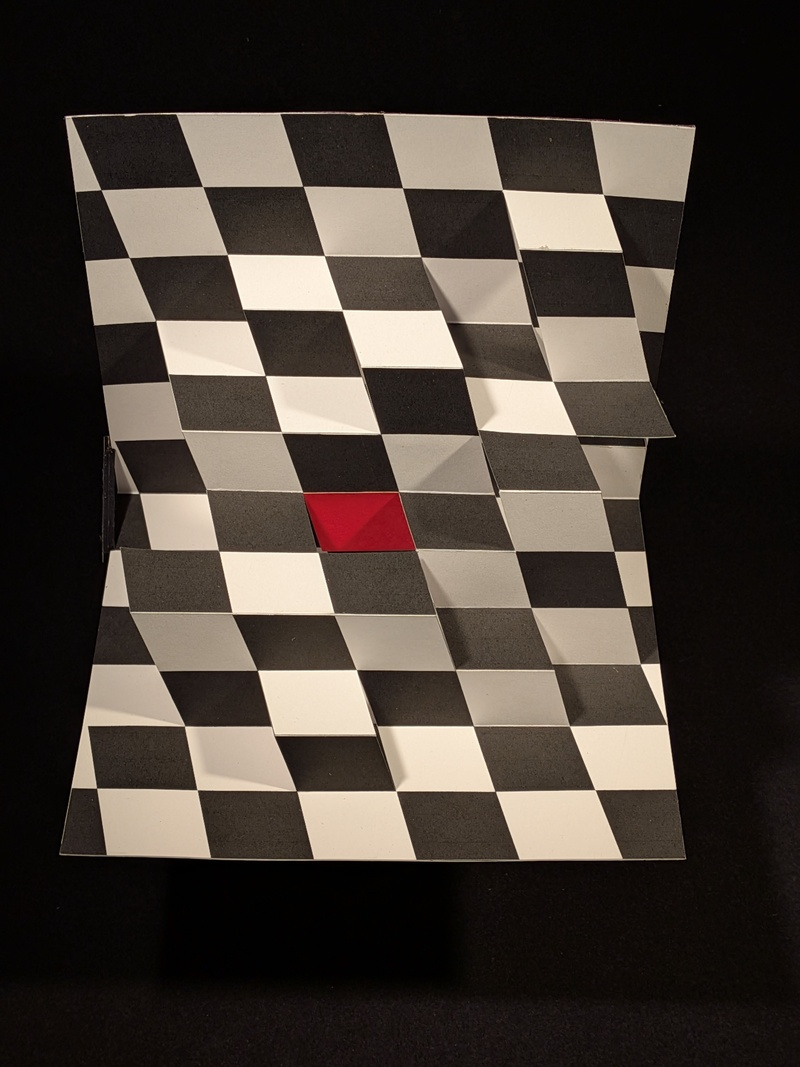
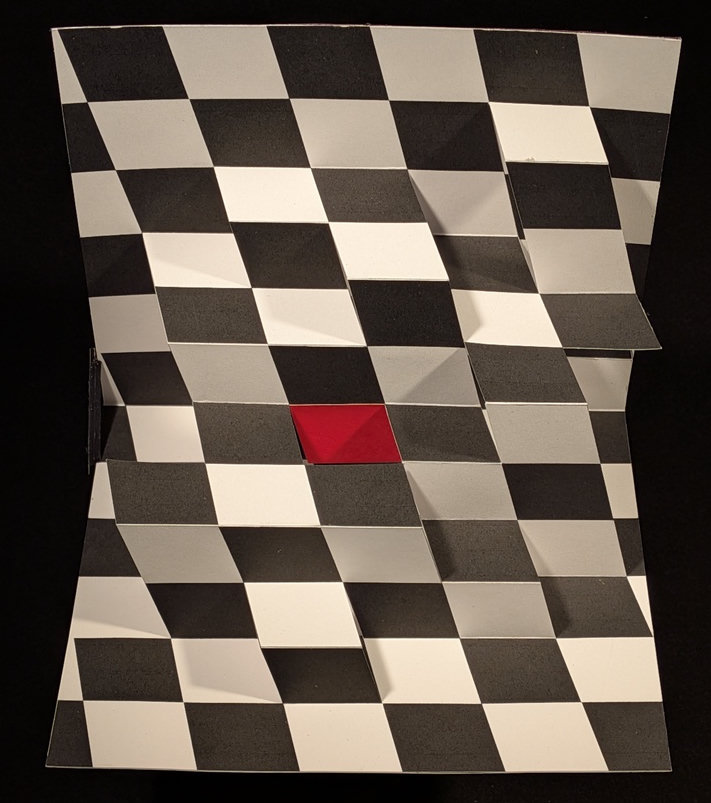
update

diff --git a/_posts/2026-01-26-february.md b/_posts/2026-01-26-february.md
@@ -27,30 +27,42 @@ The first sketch was a 16x8 grid, as shown on the upper left below. I've already
 
 Sketch #2 used the 16x8 grid at an angle, but symmetrical with the angle on the top the mirror of the bottom. I didn't like that very much so #3 has the same angle on the top and bottom. The diamonds seemed too small, making the pop-up too busy, so I went with 12x6 in #4 and #5. #5 is a refinement of #4 since #4 sticks out of the card when closed. (How many times have I said "Don't do that!"?).
 
-Here you can see the back of the final sketch. All the piece of paper glued on show where I made a cut or fold, then decided the "remove" it.
+Here you can see the back of the final sketch. All the pieces of paper glued on show where I made a cut or fold, then decided the "remove" it.
 
 ![iterating](/images/2602/iterating.jpg){: width="{{ site.imageWidth }}" }
 *Back of final sketch with band-aids*{: .image-caption}
 
-After I printed the final, full-size design, I needed to know where to score and cut. I marked up the final sketch with row and column numbers, and red and green lines for mountain and valley folds.
+After I printed the final, full-size design, I needed to know where to score and cut. I marked up the final sketch with row and column numbers, and red and green lines for mountain and valley folds. The two arrows indicate where two edges weren't connected, so tending to float a bit.
 
 ![template](/images/2602/template.jpg){: width="{{ site.imageWidth }}" }
 *Marked up final to help with cutting*{: .image-caption}
 
-![guide](/images/2602/guide.jpg){: width="{{ site.imageWidth }}" }
-*Tape as cut guide*{: .image-caption}
-
-![align](/images/2602/align.jpg){: width="{{ site.imageWidth }}" }
-*Floating edges*{: .image-caption}
+It's something that's not too noticeable, but to fix that in the final version I glued a piece of thread on the back where those two edges met.
 
 ![thread](/images/2602/thread.jpg){: width="{{ site.imageWidth }}" }
 *Thread to connect edges*{: .image-caption}
 
+And now there is never a gap.
+
+![align](/images/2602/align.jpg){: width="{{ site.imageWidth }}" }
+*Floating edges*{: .image-caption}
+
+I couldn't use the {{ site.cameo }} to make the cuts since they needed to be very precise. Cutting the print out by hand was enough to make my eyes cross. In addition to the fold marks on sketch #5, I numbered each column and row so I could transfer the cuts to the final print. (See the `8` below?) To make sure I cut the correct length, I put tape on the ruler to mark where I needed to stop cutting. Here I'm cutting three rows.
+
+![guide](/images/2602/guide.jpg){: width="{{ site.imageWidth }}" }
+*Tape as cut guide*{: .image-caption}
+
+When making the pattern, I had a choice of making a checkerboard pattern on the base, or adjust the pattern to look like a checkerboard when you looked either straight on or from the top. I tried the latter in sketch #1 and you may notice right above the `1` in the sketch photo there are two black diamonds above each other. Then up higher are two adjacent white squares. When you look at that one at other angles, the mismatched grid is noticeable. So I went with a checkerboard on the base. When you look at the final version straight on, the grid is mismatched as shown below.
+
 ![straight](/images/2602/straight-on.jpg){: width="{{ site.imageWidth }}" }
 *Straight-on view with mismatched grid*{: .image-caption}
 
+But in a more normal viewing angle, the grid matches up nicely.
+
 ![front](/images/2602/front.jpg){: width="{{ site.imageWidth }}" }
 *Front view with matched grid*{: .image-caption}
+
+I tilted the grid to make it look more interesting that squares, but I keeps seeing them more are squared in perspective than diamonds. Even so, I'm calling this Study in Black and White's shapes diamonds.
 
 ## Cover
 